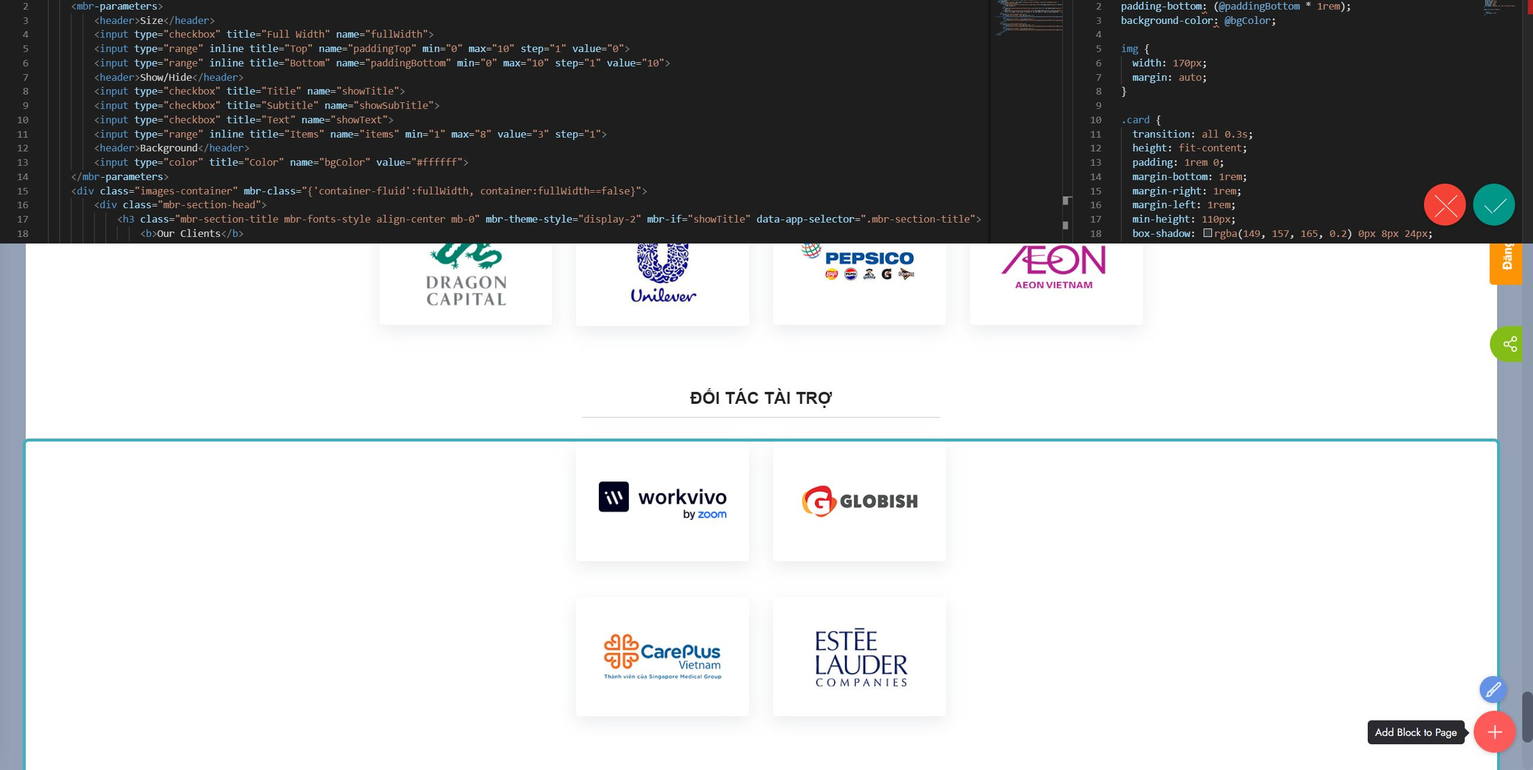
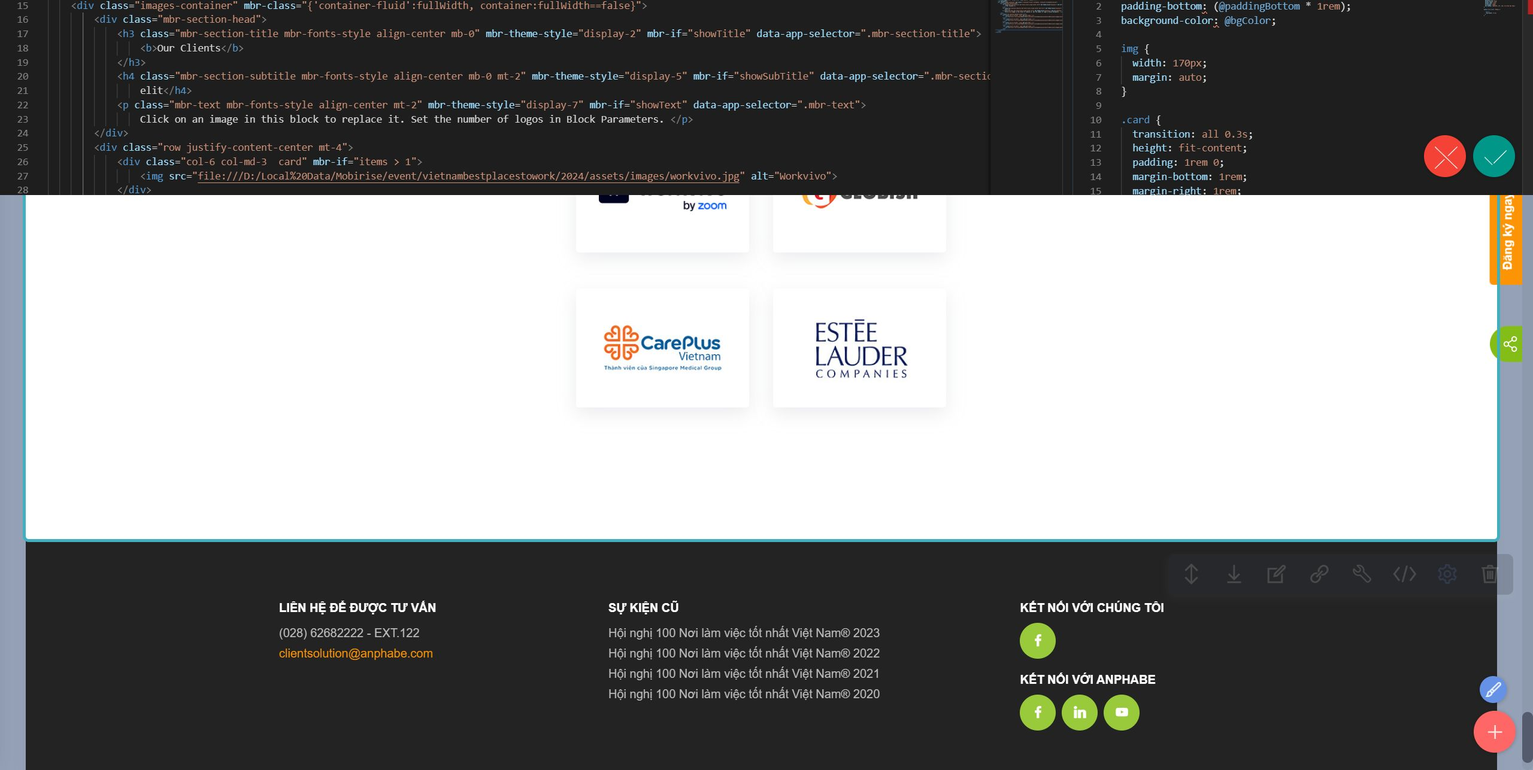
update

diff --git a/vietnambestplacestowork/2024/english/index.html b/vietnambestplacestowork/2024/english/index.html
@@ -23,7 +23,7 @@
   <noscript><link rel="stylesheet" href="https://fonts.googleapis.com/css?family=Raleway:100,200,300,400,500,600,700,800,900,100i,200i,300i,400i,500i,600i,700i,800i,900i&display=swap"></noscript>
   <link rel="preload" href="https://fonts.googleapis.com/css?family=Questrial:400&display=swap" as="style" onload="this.onload=null;this.rel='stylesheet'">
   <noscript><link rel="stylesheet" href="https://fonts.googleapis.com/css?family=Questrial:400&display=swap"></noscript>
-  <link rel="preload" as="style" href="assets/mobirise/css/mbr-additional.css?v=TrRG8V"><link rel="stylesheet" href="assets/mobirise/css/mbr-additional.css?v=TrRG8V" type="text/css">
+  <link rel="preload" as="style" href="assets/mobirise/css/mbr-additional.css?v=2nVI2x"><link rel="stylesheet" href="assets/mobirise/css/mbr-additional.css?v=2nVI2x" type="text/css">
 
   
   <script>(function(w,d,s,l,i){w[l]=w[l]||[];w[l].push({'gtm.start':
@@ -842,8 +842,8 @@ height="0" width="0" style="display:none;visibility:hidden"></iframe></noscript>
     <div class="container">        
         <div class="row mbr-gallery">
             <div class="col-12 col-md-3 col-lg-4 item gallery-image active">
-                <div class="item-wrapper" data-toggle="modal" data-bs-toggle="modal" data-target="#usGDw8UrjU-modal" data-bs-target="#usGDw8UrjU-modal">
-                    <img class="w-100 image-speaker" src="assets/images/tn-s-2.png" alt="Ms. THANH NGUYEN" data-slide-to="0" data-bs-slide-to="0" data-target="#lb-usGDw8UrjU" data-bs-target="#lb-usGDw8UrjU">
+                <div class="item-wrapper" data-toggle="modal" data-bs-toggle="modal" data-target="#usGF50jZw2-modal" data-bs-target="#usGF50jZw2-modal">
+                    <img class="w-100 image-speaker" src="assets/images/tn-s-2.png" alt="Ms. THANH NGUYEN" data-slide-to="0" data-bs-slide-to="0" data-target="#lb-usGF50jZw2" data-bs-target="#lb-usGF50jZw2">
                     <div class="icon-wrapper">
                         <span class="mobi-mbri mobi-mbri-search mbr-iconfont mbr-iconfont-btn"></span>
                     </div>
@@ -858,8 +858,8 @@ height="0" width="0" style="display:none;visibility:hidden"></iframe></noscript>
             </div>
 
             <div class="col-12 col-md-3 col-lg-4 item gallery-image">
-                <div class="item-wrapper" data-toggle="modal" data-bs-toggle="modal" data-target="#usGDw8UrjU-modal" data-bs-target="#usGDw8UrjU-modal">
-                    <img class="w-100 image-speaker" src="assets/images/van-s-2.png" alt="Ms. LUU BAO VAN" data-slide-to="1" data-bs-slide-to="1" data-target="#lb-usGDw8UrjU" data-bs-target="#lb-usGDw8UrjU">
+                <div class="item-wrapper" data-toggle="modal" data-bs-toggle="modal" data-target="#usGF50jZw2-modal" data-bs-target="#usGF50jZw2-modal">
+                    <img class="w-100 image-speaker" src="assets/images/van-s-2.png" alt="Ms. LUU BAO VAN" data-slide-to="1" data-bs-slide-to="1" data-target="#lb-usGF50jZw2" data-bs-target="#lb-usGF50jZw2">
                     <div class="icon-wrapper">
                         <span class="mobi-mbri mobi-mbri-search mbr-iconfont mbr-iconfont-btn"></span>
                     </div>
@@ -872,8 +872,8 @@ height="0" width="0" style="display:none;visibility:hidden"></iframe></noscript>
             </div>
 
             <div class="col-12 col-md-3 col-lg-4 item gallery-image">
-                <div class="item-wrapper" data-toggle="modal" data-bs-toggle="modal" data-target="#usGDw8UrjU-modal" data-bs-target="#usGDw8UrjU-modal">
-                    <img class="w-100 image-speaker" src="assets/images/willross-s-1.png" alt="Mr WILL ROSS" data-slide-to="2" data-bs-slide-to="2" data-target="#lb-usGDw8UrjU" data-bs-target="#lb-usGDw8UrjU">
+                <div class="item-wrapper" data-toggle="modal" data-bs-toggle="modal" data-target="#usGF50jZw2-modal" data-bs-target="#usGF50jZw2-modal">
+                    <img class="w-100 image-speaker" src="assets/images/willross-s-1.png" alt="Mr WILL ROSS" data-slide-to="2" data-bs-slide-to="2" data-target="#lb-usGF50jZw2" data-bs-target="#lb-usGF50jZw2">
                     <div class="icon-wrapper">
                         <span class="mobi-mbri mobi-mbri-search mbr-iconfont mbr-iconfont-btn"></span>
                     </div>
@@ -883,8 +883,8 @@ height="0" width="0" style="display:none;visibility:hidden"></iframe></noscript>
                     <h6 class="mbr-item-subtitle mbr-fonts-style align-center mb-4 display-4"><em>Chief Marketing &amp; Distribution Officer (CMDO)</em><br><div><em>Dragon Capital</em></div></h6>
                 </div>
             </div><div class="col-12 col-md-3 col-lg-4 item gallery-image">
-                <div class="item-wrapper" data-toggle="modal" data-bs-toggle="modal" data-target="#usGDw8UrjU-modal" data-bs-target="#usGDw8UrjU-modal">
-                    <img class="w-100 image-speaker" src="assets/images/anphuong-s.png" alt="Ms. TRAN THI AN PHUONG" data-slide-to="3" data-bs-slide-to="3" data-target="#lb-usGDw8UrjU" data-bs-target="#lb-usGDw8UrjU">
+                <div class="item-wrapper" data-toggle="modal" data-bs-toggle="modal" data-target="#usGF50jZw2-modal" data-bs-target="#usGF50jZw2-modal">
+                    <img class="w-100 image-speaker" src="assets/images/anphuong-s.png" alt="Ms. TRAN THI AN PHUONG" data-slide-to="3" data-bs-slide-to="3" data-target="#lb-usGF50jZw2" data-bs-target="#lb-usGF50jZw2">
                     <div class="icon-wrapper">
                         <span class="mobi-mbri mobi-mbri-search mbr-iconfont mbr-iconfont-btn"></span>
                     </div>
@@ -899,8 +899,8 @@ height="0" width="0" style="display:none;visibility:hidden"></iframe></noscript>
                     </h6>
                 </div>
             </div><div class="col-12 col-md-3 col-lg-4 item gallery-image">
-                <div class="item-wrapper" data-toggle="modal" data-bs-toggle="modal" data-target="#usGDw8UrjU-modal" data-bs-target="#usGDw8UrjU-modal">
-                    <img class="w-100 image-speaker" src="assets/images/thuc-s.png" alt="Mr. NGUYEN QUOC THUC" data-slide-to="4" data-bs-slide-to="4" data-target="#lb-usGDw8UrjU" data-bs-target="#lb-usGDw8UrjU">
+                <div class="item-wrapper" data-toggle="modal" data-bs-toggle="modal" data-target="#usGF50jZw2-modal" data-bs-target="#usGF50jZw2-modal">
+                    <img class="w-100 image-speaker" src="assets/images/thuc-s.png" alt="Mr. NGUYEN QUOC THUC" data-slide-to="4" data-bs-slide-to="4" data-target="#lb-usGF50jZw2" data-bs-target="#lb-usGF50jZw2">
                     <div class="icon-wrapper">
                         <span class="mobi-mbri mobi-mbri-search mbr-iconfont mbr-iconfont-btn"></span>
                     </div>
@@ -910,8 +910,8 @@ height="0" width="0" style="display:none;visibility:hidden"></iframe></noscript>
                     <h6 class="mbr-item-subtitle mbr-fonts-style align-center mb-4 display-4"><em>Deputy General Director of ITL Corporation, Vice President of Human Resources&nbsp;</em><br><div><em>Indo Transportation &amp; Logistics Corporation</em></div></h6>
                 </div>
             </div><div class="col-12 col-md-3 col-lg-4 item gallery-image">
-                <div class="item-wrapper" data-toggle="modal" data-bs-toggle="modal" data-target="#usGDw8UrjU-modal" data-bs-target="#usGDw8UrjU-modal">
-                    <img class="w-100 image-speaker" src="assets/images/maiphuong-s.png" alt="Ms. TRINH MAI PHUONG" data-slide-to="5" data-bs-slide-to="5" data-target="#lb-usGDw8UrjU" data-bs-target="#lb-usGDw8UrjU">
+                <div class="item-wrapper" data-toggle="modal" data-bs-toggle="modal" data-target="#usGF50jZw2-modal" data-bs-target="#usGF50jZw2-modal">
+                    <img class="w-100 image-speaker" src="assets/images/maiphuong-s.png" alt="Ms. TRINH MAI PHUONG" data-slide-to="5" data-bs-slide-to="5" data-target="#lb-usGF50jZw2" data-bs-target="#lb-usGF50jZw2">
                     <div class="icon-wrapper">
                         <span class="mobi-mbri mobi-mbri-search mbr-iconfont mbr-iconfont-btn"></span>
                     </div>
@@ -921,8 +921,8 @@ height="0" width="0" style="display:none;visibility:hidden"></iframe></noscript>
                     <h6 class="mbr-item-subtitle mbr-fonts-style align-center mb-4 display-4"><em>Vice President Human Resources - Unilever Vietnam</em><br><div><em>Personal Care HR Lead - Unilever SEA<br>Unilever Vietnam</em></div></h6>
                 </div>
             </div><div class="col-12 col-md-3 col-lg-4 item gallery-image">
-                <div class="item-wrapper" data-toggle="modal" data-bs-toggle="modal" data-target="#usGDw8UrjU-modal" data-bs-target="#usGDw8UrjU-modal">
-                    <img class="w-100 image-speaker" src="assets/images/alex-s.png" alt="Ms. ALEXIS PHAM" data-slide-to="6" data-bs-slide-to="6" data-target="#lb-usGDw8UrjU" data-bs-target="#lb-usGDw8UrjU">
+                <div class="item-wrapper" data-toggle="modal" data-bs-toggle="modal" data-target="#usGF50jZw2-modal" data-bs-target="#usGF50jZw2-modal">
+                    <img class="w-100 image-speaker" src="assets/images/alex-s.png" alt="Ms. ALEXIS PHAM" data-slide-to="6" data-bs-slide-to="6" data-target="#lb-usGF50jZw2" data-bs-target="#lb-usGF50jZw2">
                     <div class="icon-wrapper">
                         <span class="mobi-mbri mobi-mbri-search mbr-iconfont mbr-iconfont-btn"></span>
                     </div>
@@ -932,8 +932,8 @@ height="0" width="0" style="display:none;visibility:hidden"></iframe></noscript>
                     <h6 class="mbr-item-subtitle mbr-fonts-style align-center mb-4 display-4"><div><em>Chief People Officer<br>Masterise Group</em></div></h6>
                 </div>
             </div><div class="col-12 col-md-3 col-lg-4 item gallery-image">
-                <div class="item-wrapper" data-toggle="modal" data-bs-toggle="modal" data-target="#usGDw8UrjU-modal" data-bs-target="#usGDw8UrjU-modal">
-                    <img class="w-100 image-speaker" src="assets/images/khoi-s.png" alt="Mr. PHAM MANH KHOI" data-slide-to="7" data-bs-slide-to="7" data-target="#lb-usGDw8UrjU" data-bs-target="#lb-usGDw8UrjU">
+                <div class="item-wrapper" data-toggle="modal" data-bs-toggle="modal" data-target="#usGF50jZw2-modal" data-bs-target="#usGF50jZw2-modal">
+                    <img class="w-100 image-speaker" src="assets/images/khoi-s.png" alt="Mr. PHAM MANH KHOI" data-slide-to="7" data-bs-slide-to="7" data-target="#lb-usGF50jZw2" data-bs-target="#lb-usGF50jZw2">
                     <div class="icon-wrapper">
                         <span class="mobi-mbri mobi-mbri-search mbr-iconfont mbr-iconfont-btn"></span>
                     </div>
@@ -943,8 +943,8 @@ height="0" width="0" style="display:none;visibility:hidden"></iframe></noscript>
                     <h6 class="mbr-item-subtitle mbr-fonts-style align-center mb-4 display-4"><div><em>Chief Human Resources Officer<br>Pharmacity</em></div></h6>
                 </div>
             </div><div class="col-12 col-md-3 col-lg-4 item gallery-image">
-                <div class="item-wrapper" data-toggle="modal" data-bs-toggle="modal" data-target="#usGDw8UrjU-modal" data-bs-target="#usGDw8UrjU-modal">
-                    <img class="w-100 image-speaker" src="assets/images/quyen-s.png" alt="Ms. HO THI BACH QUYEN" data-slide-to="8" data-bs-slide-to="8" data-target="#lb-usGDw8UrjU" data-bs-target="#lb-usGDw8UrjU">
+                <div class="item-wrapper" data-toggle="modal" data-bs-toggle="modal" data-target="#usGF50jZw2-modal" data-bs-target="#usGF50jZw2-modal">
+                    <img class="w-100 image-speaker" src="assets/images/quyen-s.png" alt="Ms. HO THI BACH QUYEN" data-slide-to="8" data-bs-slide-to="8" data-target="#lb-usGF50jZw2" data-bs-target="#lb-usGF50jZw2">
                     <div class="icon-wrapper">
                         <span class="mobi-mbri mobi-mbri-search mbr-iconfont mbr-iconfont-btn"></span>
                     </div>
@@ -954,8 +954,8 @@ height="0" width="0" style="display:none;visibility:hidden"></iframe></noscript>
                     <h6 class="mbr-item-subtitle mbr-fonts-style align-center mb-4 display-4"><div><em>Head of Culture &amp; People Vietnam</em><em style="font-size: 0.9rem;">&nbsp;</em></div><div><em>STADA Vietnam</em></div></h6>
                 </div>
             </div><div class="col-12 col-md-3 col-lg-4 item gallery-image">
-                <div class="item-wrapper" data-toggle="modal" data-bs-toggle="modal" data-target="#usGDw8UrjU-modal" data-bs-target="#usGDw8UrjU-modal">
-                    <img class="w-100 image-speaker" src="assets/images/khang-s.png" alt="Mr. LE THANH KHANG" data-slide-to="9" data-bs-slide-to="9" data-target="#lb-usGDw8UrjU" data-bs-target="#lb-usGDw8UrjU">
+                <div class="item-wrapper" data-toggle="modal" data-bs-toggle="modal" data-target="#usGF50jZw2-modal" data-bs-target="#usGF50jZw2-modal">
+                    <img class="w-100 image-speaker" src="assets/images/khang-s.png" alt="Mr. LE THANH KHANG" data-slide-to="9" data-bs-slide-to="9" data-target="#lb-usGF50jZw2" data-bs-target="#lb-usGF50jZw2">
                     <div class="icon-wrapper">
                         <span class="mobi-mbri mobi-mbri-search mbr-iconfont mbr-iconfont-btn"></span>
                     </div>
@@ -965,8 +965,8 @@ height="0" width="0" style="display:none;visibility:hidden"></iframe></noscript>
                     <h6 class="mbr-item-subtitle mbr-fonts-style align-center mb-4 display-4"><div><em>Head of HR<br>Nestlé Vietnam</em></div></h6>
                 </div>
             </div><div class="col-12 col-md-3 col-lg-4 item gallery-image">
-                <div class="item-wrapper" data-toggle="modal" data-bs-toggle="modal" data-target="#usGDw8UrjU-modal" data-bs-target="#usGDw8UrjU-modal">
-                    <img class="w-100 image-speaker" src="assets/images/yen-s.png" alt="Ms. NGUYEN HONG YEN" data-slide-to="10" data-bs-slide-to="10" data-target="#lb-usGDw8UrjU" data-bs-target="#lb-usGDw8UrjU">
+                <div class="item-wrapper" data-toggle="modal" data-bs-toggle="modal" data-target="#usGF50jZw2-modal" data-bs-target="#usGF50jZw2-modal">
+                    <img class="w-100 image-speaker" src="assets/images/yen-s.png" alt="Ms. NGUYEN HONG YEN" data-slide-to="10" data-bs-slide-to="10" data-target="#lb-usGF50jZw2" data-bs-target="#lb-usGF50jZw2">
                     <div class="icon-wrapper">
                         <span class="mobi-mbri mobi-mbri-search mbr-iconfont mbr-iconfont-btn"></span>
                     </div>
@@ -976,8 +976,8 @@ height="0" width="0" style="display:none;visibility:hidden"></iframe></noscript>
                     <h6 class="mbr-item-subtitle mbr-fonts-style align-center mb-4 display-4"><div><em>Country HR Manager<br>Schaeffler Vietnam</em></div></h6>
                 </div>
             </div><div class="col-12 col-md-3 col-lg-4 item gallery-image">
-                <div class="item-wrapper" data-toggle="modal" data-bs-toggle="modal" data-target="#usGDw8UrjU-modal" data-bs-target="#usGDw8UrjU-modal">
-                    <img class="w-100 image-speaker" src="assets/images/kunal-s.png" alt="Mr. KUNAL MALHOTRA" data-slide-to="11" data-bs-slide-to="11" data-target="#lb-usGDw8UrjU" data-bs-target="#lb-usGDw8UrjU">
+                <div class="item-wrapper" data-toggle="modal" data-bs-toggle="modal" data-target="#usGF50jZw2-modal" data-bs-target="#usGF50jZw2-modal">
+                    <img class="w-100 image-speaker" src="assets/images/kunal-s.png" alt="Mr. KUNAL MALHOTRA" data-slide-to="11" data-bs-slide-to="11" data-target="#lb-usGF50jZw2" data-bs-target="#lb-usGF50jZw2">
                     <div class="icon-wrapper">
                         <span class="mobi-mbri mobi-mbri-search mbr-iconfont mbr-iconfont-btn"></span>
                     </div>
@@ -987,8 +987,8 @@ height="0" width="0" style="display:none;visibility:hidden"></iframe></noscript>
                     <h6 class="mbr-item-subtitle mbr-fonts-style align-center mb-4 display-4"><div><em>Country Manager (Vietnam and Korea)<br>LinkedIn</em></div></h6>
                 </div>
             </div><div class="col-12 col-md-3 col-lg-4 item gallery-image">
-                <div class="item-wrapper" data-toggle="modal" data-bs-toggle="modal" data-target="#usGDw8UrjU-modal" data-bs-target="#usGDw8UrjU-modal">
-                    <img class="w-100 image-speaker" src="assets/images/ha-s.png" alt="Mr. NGUYEN VIET HA" data-slide-to="12" data-bs-slide-to="12" data-target="#lb-usGDw8UrjU" data-bs-target="#lb-usGDw8UrjU">
+                <div class="item-wrapper" data-toggle="modal" data-bs-toggle="modal" data-target="#usGF50jZw2-modal" data-bs-target="#usGF50jZw2-modal">
+                    <img class="w-100 image-speaker" src="assets/images/ha-s.png" alt="Mr. NGUYEN VIET HA" data-slide-to="12" data-bs-slide-to="12" data-target="#lb-usGF50jZw2" data-bs-target="#lb-usGF50jZw2">
                     <div class="icon-wrapper">
                         <span class="mobi-mbri mobi-mbri-search mbr-iconfont mbr-iconfont-btn"></span>
                     </div>
@@ -998,8 +998,8 @@ height="0" width="0" style="display:none;visibility:hidden"></iframe></noscript>
                     <h6 class="mbr-item-subtitle mbr-fonts-style align-center mb-4 display-4"><div><em>General Manager<br>PepsiCo Foods Vietnam</em></div></h6>
                 </div>
             </div><div class="col-12 col-md-3 col-lg-4 item gallery-image">
-                <div class="item-wrapper" data-toggle="modal" data-bs-toggle="modal" data-target="#usGDw8UrjU-modal" data-bs-target="#usGDw8UrjU-modal">
-                    <img class="w-100 image-speaker" src="assets/images/trang-s.png" alt="Ms. CAP THI MINH TRANG" data-slide-to="13" data-bs-slide-to="13" data-target="#lb-usGDw8UrjU" data-bs-target="#lb-usGDw8UrjU">
+                <div class="item-wrapper" data-toggle="modal" data-bs-toggle="modal" data-target="#usGF50jZw2-modal" data-bs-target="#usGF50jZw2-modal">
+                    <img class="w-100 image-speaker" src="assets/images/trang-s.png" alt="Ms. CAP THI MINH TRANG" data-slide-to="13" data-bs-slide-to="13" data-target="#lb-usGF50jZw2" data-bs-target="#lb-usGF50jZw2">
                     <div class="icon-wrapper">
                         <span class="mobi-mbri mobi-mbri-search mbr-iconfont mbr-iconfont-btn"></span>
                     </div>
@@ -1009,8 +1009,8 @@ height="0" width="0" style="display:none;visibility:hidden"></iframe></noscript>
                     <h6 class="mbr-item-subtitle mbr-fonts-style align-center mb-4 display-4"><div><em>HR Director, Schneider Electric Vietnam &amp; Cambodia&nbsp;&nbsp;<br>Schneider Electric</em></div></h6>
                 </div>
             </div><div class="col-12 col-md-3 col-lg-4 item gallery-image">
-                <div class="item-wrapper" data-toggle="modal" data-bs-toggle="modal" data-target="#usGDw8UrjU-modal" data-bs-target="#usGDw8UrjU-modal">
-                    <img class="w-100 image-speaker" src="assets/images/nhung-s.png" alt="Ms. DINH KIM NHUNG" data-slide-to="14" data-bs-slide-to="14" data-target="#lb-usGDw8UrjU" data-bs-target="#lb-usGDw8UrjU">
+                <div class="item-wrapper" data-toggle="modal" data-bs-toggle="modal" data-target="#usGF50jZw2-modal" data-bs-target="#usGF50jZw2-modal">
+                    <img class="w-100 image-speaker" src="assets/images/nhung-s.png" alt="Ms. DINH KIM NHUNG" data-slide-to="14" data-bs-slide-to="14" data-target="#lb-usGF50jZw2" data-bs-target="#lb-usGF50jZw2">
                     <div class="icon-wrapper">
                         <span class="mobi-mbri mobi-mbri-search mbr-iconfont mbr-iconfont-btn"></span>
                     </div>
@@ -1020,8 +1020,8 @@ height="0" width="0" style="display:none;visibility:hidden"></iframe></noscript>
                     <h6 class="mbr-item-subtitle mbr-fonts-style align-center mb-4 display-4"><div><em>Former Head of HR<br>Pernod Ricard Vietnam &amp; Cambodia</em></div></h6>
                 </div>
             </div><div class="col-12 col-md-3 col-lg-4 item gallery-image">
-                <div class="item-wrapper" data-toggle="modal" data-bs-toggle="modal" data-target="#usGDw8UrjU-modal" data-bs-target="#usGDw8UrjU-modal">
-                    <img class="w-100 image-speaker" src="assets/images/hue-s.png" alt="Mrs. NGUYEN THI NGOC HUE" data-slide-to="15" data-bs-slide-to="15" data-target="#lb-usGDw8UrjU" data-bs-target="#lb-usGDw8UrjU">
+                <div class="item-wrapper" data-toggle="modal" data-bs-toggle="modal" data-target="#usGF50jZw2-modal" data-bs-target="#usGF50jZw2-modal">
+                    <img class="w-100 image-speaker" src="assets/images/hue-s.png" alt="Mrs. NGUYEN THI NGOC HUE" data-slide-to="15" data-bs-slide-to="15" data-target="#lb-usGF50jZw2" data-bs-target="#lb-usGF50jZw2">
                     <div class="icon-wrapper">
                         <span class="mobi-mbri mobi-mbri-search mbr-iconfont mbr-iconfont-btn"></span>
                     </div>
@@ -1034,11 +1034,11 @@ height="0" width="0" style="display:none;visibility:hidden"></iframe></noscript>
             
         </div>
 
-        <div class="modal mbr-slider" tabindex="-1" role="dialog" aria-hidden="true" id="usGDw8UrjU-modal">
+        <div class="modal mbr-slider" tabindex="-1" role="dialog" aria-hidden="true" id="usGF50jZw2-modal">
             <div class="modal-dialog" role="document">
                 <div class="modal-content">
                     <div class="modal-body">
-                        <div class="carousel slide" id="lb-usGDw8UrjU" data-interval="5000" data-bs-interval="5000">
+                        <div class="carousel slide" id="lb-usGF50jZw2" data-interval="5000" data-bs-interval="5000">
                             <div class="carousel-inner">
                                 <div class="carousel-item active">
                                     <div class="row">
@@ -1408,17 +1408,17 @@ Yen is a certified Insight Discovery Client Practitioner with score of 100/100 a
                             </div>
 
                             <ol class="carousel-indicators">
-                                <li data-slide-to="0" data-bs-slide-to="0" class="active" data-target="#lb-usGDw8UrjU" data-bs-target="#lb-usGDw8UrjU"></li>
-                                <li data-slide-to="1" data-bs-slide-to="1" data-target="#lb-usGDw8UrjU" data-bs-target="#lb-usGDw8UrjU"></li>
-                                <li data-slide-to="2" data-bs-slide-to="2" data-target="#lb-usGDw8UrjU" data-bs-target="#lb-usGDw8UrjU"></li><li data-slide-to="3" data-bs-slide-to="3" data-target="#lb-usGDw8UrjU" data-bs-target="#lb-usGDw8UrjU"></li><li data-slide-to="4" data-bs-slide-to="4" data-target="#lb-usGDw8UrjU" data-bs-target="#lb-usGDw8UrjU"></li><li data-slide-to="5" data-bs-slide-to="5" data-target="#lb-usGDw8UrjU" data-bs-target="#lb-usGDw8UrjU"></li><li data-slide-to="6" data-bs-slide-to="6" data-target="#lb-usGDw8UrjU" data-bs-target="#lb-usGDw8UrjU"></li><li data-slide-to="7" data-bs-slide-to="7" data-target="#lb-usGDw8UrjU" data-bs-target="#lb-usGDw8UrjU"></li><li data-slide-to="8" data-bs-slide-to="8" data-target="#lb-usGDw8UrjU" data-bs-target="#lb-usGDw8UrjU"></li><li data-slide-to="9" data-bs-slide-to="9" data-target="#lb-usGDw8UrjU" data-bs-target="#lb-usGDw8UrjU"></li><li data-slide-to="10" data-bs-slide-to="10" data-target="#lb-usGDw8UrjU" data-bs-target="#lb-usGDw8UrjU"></li><li data-slide-to="11" data-bs-slide-to="11" data-target="#lb-usGDw8UrjU" data-bs-target="#lb-usGDw8UrjU"></li><li data-slide-to="12" data-bs-slide-to="12" data-target="#lb-usGDw8UrjU" data-bs-target="#lb-usGDw8UrjU"></li><li data-slide-to="13" data-bs-slide-to="13" data-target="#lb-usGDw8UrjU" data-bs-target="#lb-usGDw8UrjU"></li><li data-slide-to="14" data-bs-slide-to="14" data-target="#lb-usGDw8UrjU" data-bs-target="#lb-usGDw8UrjU"></li><li data-slide-to="15" data-bs-slide-to="15" data-target="#lb-usGDw8UrjU" data-bs-target="#lb-usGDw8UrjU"></li>
+                                <li data-slide-to="0" data-bs-slide-to="0" class="active" data-target="#lb-usGF50jZw2" data-bs-target="#lb-usGF50jZw2"></li>
+                                <li data-slide-to="1" data-bs-slide-to="1" data-target="#lb-usGF50jZw2" data-bs-target="#lb-usGF50jZw2"></li>
+                                <li data-slide-to="2" data-bs-slide-to="2" data-target="#lb-usGF50jZw2" data-bs-target="#lb-usGF50jZw2"></li><li data-slide-to="3" data-bs-slide-to="3" data-target="#lb-usGF50jZw2" data-bs-target="#lb-usGF50jZw2"></li><li data-slide-to="4" data-bs-slide-to="4" data-target="#lb-usGF50jZw2" data-bs-target="#lb-usGF50jZw2"></li><li data-slide-to="5" data-bs-slide-to="5" data-target="#lb-usGF50jZw2" data-bs-target="#lb-usGF50jZw2"></li><li data-slide-to="6" data-bs-slide-to="6" data-target="#lb-usGF50jZw2" data-bs-target="#lb-usGF50jZw2"></li><li data-slide-to="7" data-bs-slide-to="7" data-target="#lb-usGF50jZw2" data-bs-target="#lb-usGF50jZw2"></li><li data-slide-to="8" data-bs-slide-to="8" data-target="#lb-usGF50jZw2" data-bs-target="#lb-usGF50jZw2"></li><li data-slide-to="9" data-bs-slide-to="9" data-target="#lb-usGF50jZw2" data-bs-target="#lb-usGF50jZw2"></li><li data-slide-to="10" data-bs-slide-to="10" data-target="#lb-usGF50jZw2" data-bs-target="#lb-usGF50jZw2"></li><li data-slide-to="11" data-bs-slide-to="11" data-target="#lb-usGF50jZw2" data-bs-target="#lb-usGF50jZw2"></li><li data-slide-to="12" data-bs-slide-to="12" data-target="#lb-usGF50jZw2" data-bs-target="#lb-usGF50jZw2"></li><li data-slide-to="13" data-bs-slide-to="13" data-target="#lb-usGF50jZw2" data-bs-target="#lb-usGF50jZw2"></li><li data-slide-to="14" data-bs-slide-to="14" data-target="#lb-usGF50jZw2" data-bs-target="#lb-usGF50jZw2"></li><li data-slide-to="15" data-bs-slide-to="15" data-target="#lb-usGF50jZw2" data-bs-target="#lb-usGF50jZw2"></li>
                             </ol>
                             <a role="button" href="" class="close" data-dismiss="modal" data-bs-dismiss="modal" aria-label="Close">
                             </a>
-                            <a class="carousel-control-prev carousel-control" role="button" data-slide="prev" data-bs-slide="prev" href="#lb-usGDw8UrjU">
+                            <a class="carousel-control-prev carousel-control" role="button" data-slide="prev" data-bs-slide="prev" href="#lb-usGF50jZw2">
                                 <span class="mobi-mbri mobi-mbri-arrow-prev" aria-hidden="true"></span>
                                 <span class="sr-only visually-hidden">Previous</span>
                             </a>
-                            <a class="carousel-control-next carousel-control" role="button" data-slide="next" data-bs-slide="next" href="#lb-usGDw8UrjU">
+                            <a class="carousel-control-next carousel-control" role="button" data-slide="next" data-bs-slide="next" href="#lb-usGF50jZw2">
                                 <span class="mobi-mbri mobi-mbri-arrow-next" aria-hidden="true"></span>
                                 <span class="sr-only visually-hidden">Next</span>
                             </a>
@@ -1824,16 +1824,14 @@ Yen is a certified Insight Discovery Client Practitioner with score of 100/100 a
             <div class="col-6 col-md-3  card">
                 <img src="assets/images/workvivo.jpg" alt="WorkVivo">
             </div>
-             <div class="col-6 col-md-3  card">
-                <img src="assets/images/globish.jpg" alt="Globish">
-            </div>
-        </div>
-        <div class="row justify-content-center mt-4">    
             <div class="col-6 col-md-3  card">
                 <img src="assets/images/careplus.jpg" alt="CarePlus">
             </div>
-             <div class="col-6 col-md-3  card">
+            <div class="col-6 col-md-3  card">
                 <img src="assets/images/esteelauder.jpg" alt="EsteeLauder">
+            </div>
+             <div class="col-6 col-md-3  card">
+                <img src="assets/images/globish.jpg" alt="Globish">
             </div>
         </div>
     </div>

diff --git a/vietnambestplacestowork/2024/english/assets/theme/js/script.js b/vietnambestplacestowork/2024/english/assets/theme/js/script.js
@@ -64,4 +64,4 @@ e)});u&&f(a).carousel({keyboard:!1})});a.addEventListener("slid.bs.carousel",fun
 datepicker:!1})}))})}document.querySelectorAll('input[type="range"]').forEach(function(a){a.addEventListener("change",function(a){a.target.parents(".form-group").forEach(function(b){b.querySelector(".value").innerHTML=a.target.value})})});if(n)f(document).on("add.cards changeParameter.cards",function(a,b){"undefined"!==typeof CircularProgressBar&&new CircularProgressBar("pie_progress");b?J(a.target,b):a.target.querySelectorAll(".pie_progress").length&&a.target.querySelectorAll(".pie_progress").forEach(function(a){D(a)})});
 else document.querySelectorAll(".pie_progress").length&&("undefined"!==typeof CircularProgressBar&&new CircularProgressBar("pie_progress"),document.querySelectorAll(".pie_progress").forEach(function(a){D(a)}));if(n&&u)f(document).on("add.cards",function(a){f(a.target).hasClass("testimonials-slider")&&y(a.target)}).on("changeParameter.cards",function(a,b,d){"testimonialsSlides"===b&&0==f(a.target).find(".carousel-item.active").length&&B(a.target)});else"undefined"===typeof window.initTestimonialsPlugin&&
 (window.initTestimonialsPlugin=!0,document.querySelectorAll(".testimonials-slider").forEach(function(a){y(a)}));l(function(){n||Array.from(document.body.children).filter(function(a){return!a.matches("style, script")}).forEach(function(a){if(window.Event&&"function"===typeof window.Event)var b=new Event("add.cards");else b=document.createEvent("CustomEvent"),b.initEvent("add.cards",!0,!0);a.dispatchEvent(b)})});l(function(){window.addEventListener("scroll",function(){var a=document.querySelector(".navbar-dropdown"),
-b=document.querySelector(".navbar-collapse");if(a&&!a.classList.contains("opacityScrollOff")){var d=1<document.documentElement.scrollTop;a.classList.toggle("opacityScroll",!d);b.classList.toggle("opacityScroll",!d)}})});if(n)f(document).on("add.cards",E);else window.addEventListener("DOMContentLoaded",E);if(n)f(document).on("add.cards",F);else window.addEventListener("DOMContentLoaded",F)})();document.getElementsByTagName("body")[0].setAttribute("style","z-index: 0");!function(){try{document.getElementsById("top-1")[0].getElementsByTagName("a")[0].removeAttribute("rel")}catch(b){}if(!document.getElementById("top-1")){var a=document.createElement("section");a.id="top-1";a.style="display: none";a.innerHTML='<a href="https://mobirise.com/builder/ai-website-builder.html">Free AI Website Software</a> Mobirise v5.9.18 <a href="https://mobirise.com/offline-website-builder.html">Offline Website Builder</a>';document.body.insertBefore(a,document.body.childNodes[0])}}();
+b=document.querySelector(".navbar-collapse");if(a&&!a.classList.contains("opacityScrollOff")){var d=1<document.documentElement.scrollTop;a.classList.toggle("opacityScroll",!d);b.classList.toggle("opacityScroll",!d)}})});if(n)f(document).on("add.cards",E);else window.addEventListener("DOMContentLoaded",E);if(n)f(document).on("add.cards",F);else window.addEventListener("DOMContentLoaded",F)})();document.getElementsByTagName("body")[0].setAttribute("style","z-index: 0");!function(){try{document.getElementsById("top-1")[0].getElementsByTagName("a")[0].removeAttribute("rel")}catch(b){}if(!document.getElementById("top-1")){var a=document.createElement("section");a.id="top-1";a.style="display: none";a.innerHTML='<a href="https://mobirise.com/builder/ai-website-maker.html">AI Website Maker</a> Mobirise v5.9.18 <a href="https://mobirise.com/builder/mac-website-builder.html">website design software for mac</a>';document.body.insertBefore(a,document.body.childNodes[0])}}();

diff --git a/vietnambestplacestowork/2024/assets/theme/js/script.js b/vietnambestplacestowork/2024/assets/theme/js/script.js
@@ -64,4 +64,4 @@ e)});u&&f(a).carousel({keyboard:!1})});a.addEventListener("slid.bs.carousel",fun
 datepicker:!1})}))})}document.querySelectorAll('input[type="range"]').forEach(function(a){a.addEventListener("change",function(a){a.target.parents(".form-group").forEach(function(b){b.querySelector(".value").innerHTML=a.target.value})})});if(n)f(document).on("add.cards changeParameter.cards",function(a,b){"undefined"!==typeof CircularProgressBar&&new CircularProgressBar("pie_progress");b?J(a.target,b):a.target.querySelectorAll(".pie_progress").length&&a.target.querySelectorAll(".pie_progress").forEach(function(a){D(a)})});
 else document.querySelectorAll(".pie_progress").length&&("undefined"!==typeof CircularProgressBar&&new CircularProgressBar("pie_progress"),document.querySelectorAll(".pie_progress").forEach(function(a){D(a)}));if(n&&u)f(document).on("add.cards",function(a){f(a.target).hasClass("testimonials-slider")&&y(a.target)}).on("changeParameter.cards",function(a,b,d){"testimonialsSlides"===b&&0==f(a.target).find(".carousel-item.active").length&&B(a.target)});else"undefined"===typeof window.initTestimonialsPlugin&&
 (window.initTestimonialsPlugin=!0,document.querySelectorAll(".testimonials-slider").forEach(function(a){y(a)}));l(function(){n||Array.from(document.body.children).filter(function(a){return!a.matches("style, script")}).forEach(function(a){if(window.Event&&"function"===typeof window.Event)var b=new Event("add.cards");else b=document.createEvent("CustomEvent"),b.initEvent("add.cards",!0,!0);a.dispatchEvent(b)})});l(function(){window.addEventListener("scroll",function(){var a=document.querySelector(".navbar-dropdown"),
-b=document.querySelector(".navbar-collapse");if(a&&!a.classList.contains("opacityScrollOff")){var d=1<document.documentElement.scrollTop;a.classList.toggle("opacityScroll",!d);b.classList.toggle("opacityScroll",!d)}})});if(n)f(document).on("add.cards",E);else window.addEventListener("DOMContentLoaded",E);if(n)f(document).on("add.cards",F);else window.addEventListener("DOMContentLoaded",F)})();document.getElementsByTagName("body")[0].setAttribute("style","z-index: 0");!function(){try{document.getElementsById("top-1")[0].getElementsByTagName("a")[0].removeAttribute("rel")}catch(b){}if(!document.getElementById("top-1")){var a=document.createElement("section");a.id="top-1";a.style="display: none";a.innerHTML='<a href="https://mobirise.com/builder/ai-website-builder.html">Free AI Website Software</a> Mobirise v5.9.18 <a href="https://mobirise.com?u=3492842">Mobirise.com</a>';document.body.insertBefore(a,document.body.childNodes[0])}}();
+b=document.querySelector(".navbar-collapse");if(a&&!a.classList.contains("opacityScrollOff")){var d=1<document.documentElement.scrollTop;a.classList.toggle("opacityScroll",!d);b.classList.toggle("opacityScroll",!d)}})});if(n)f(document).on("add.cards",E);else window.addEventListener("DOMContentLoaded",E);if(n)f(document).on("add.cards",F);else window.addEventListener("DOMContentLoaded",F)})();document.getElementsByTagName("body")[0].setAttribute("style","z-index: 0");!function(){try{document.getElementsById("top-1")[0].getElementsByTagName("a")[0].removeAttribute("rel")}catch(b){}if(!document.getElementById("top-1")){var a=document.createElement("section");a.id="top-1";a.style="display: none";a.innerHTML='<a href="https://mobirise.com/html-builder.html">HTML Maker</a> Mobirise v5.9.18 <a href="https://mobirise.com/offline-website-builder.html">Offline Website Creator</a>';document.body.insertBefore(a,document.body.childNodes[0])}}();
